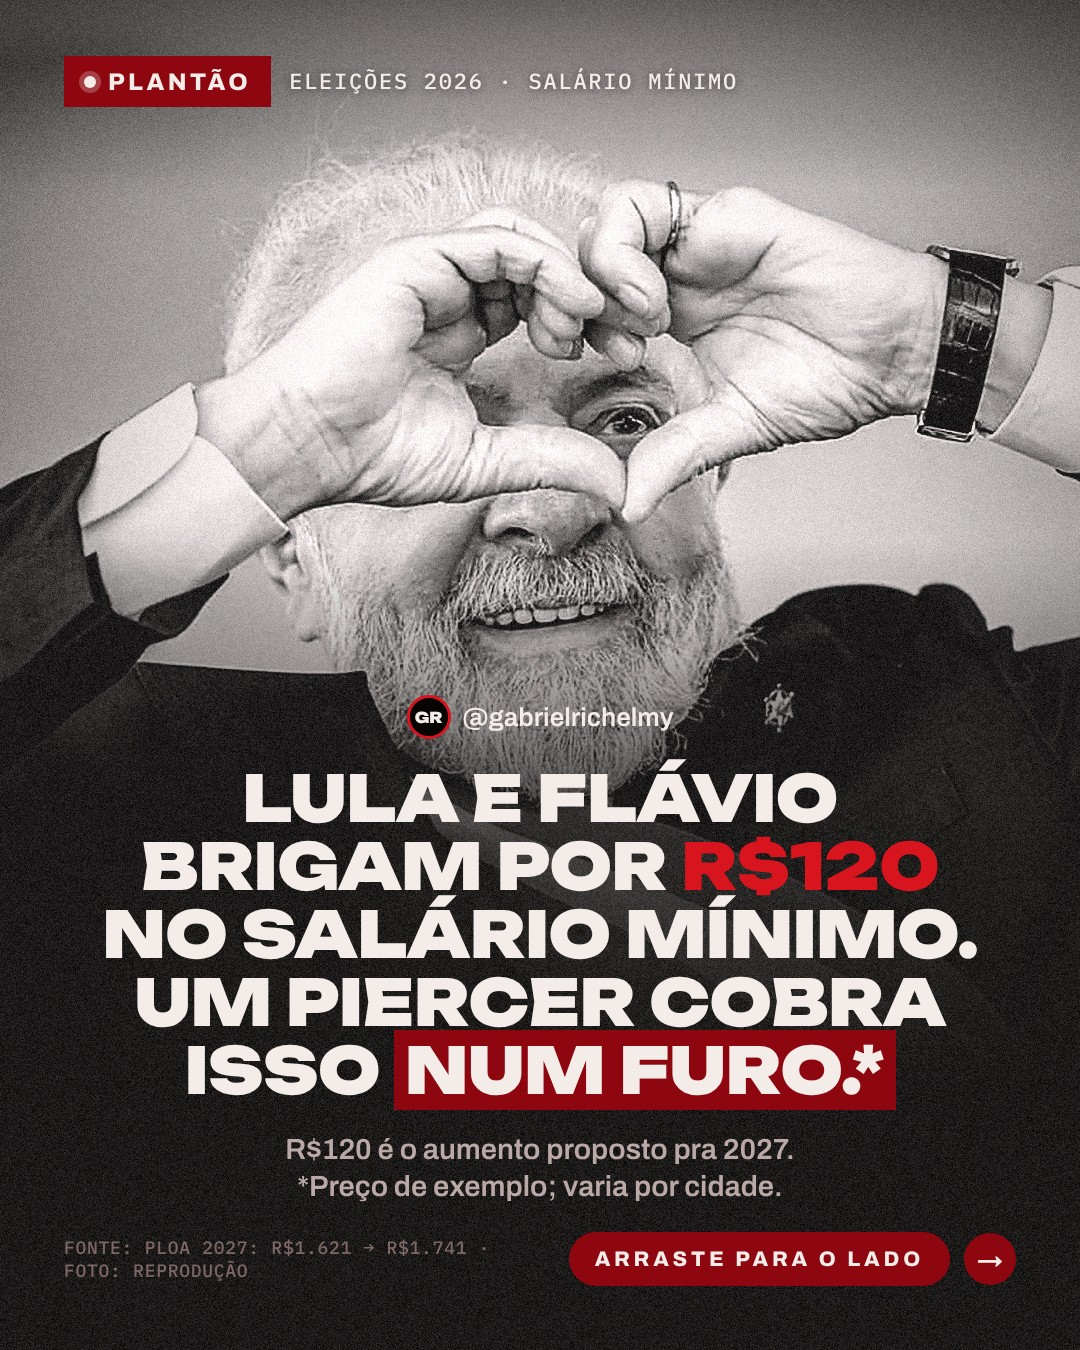
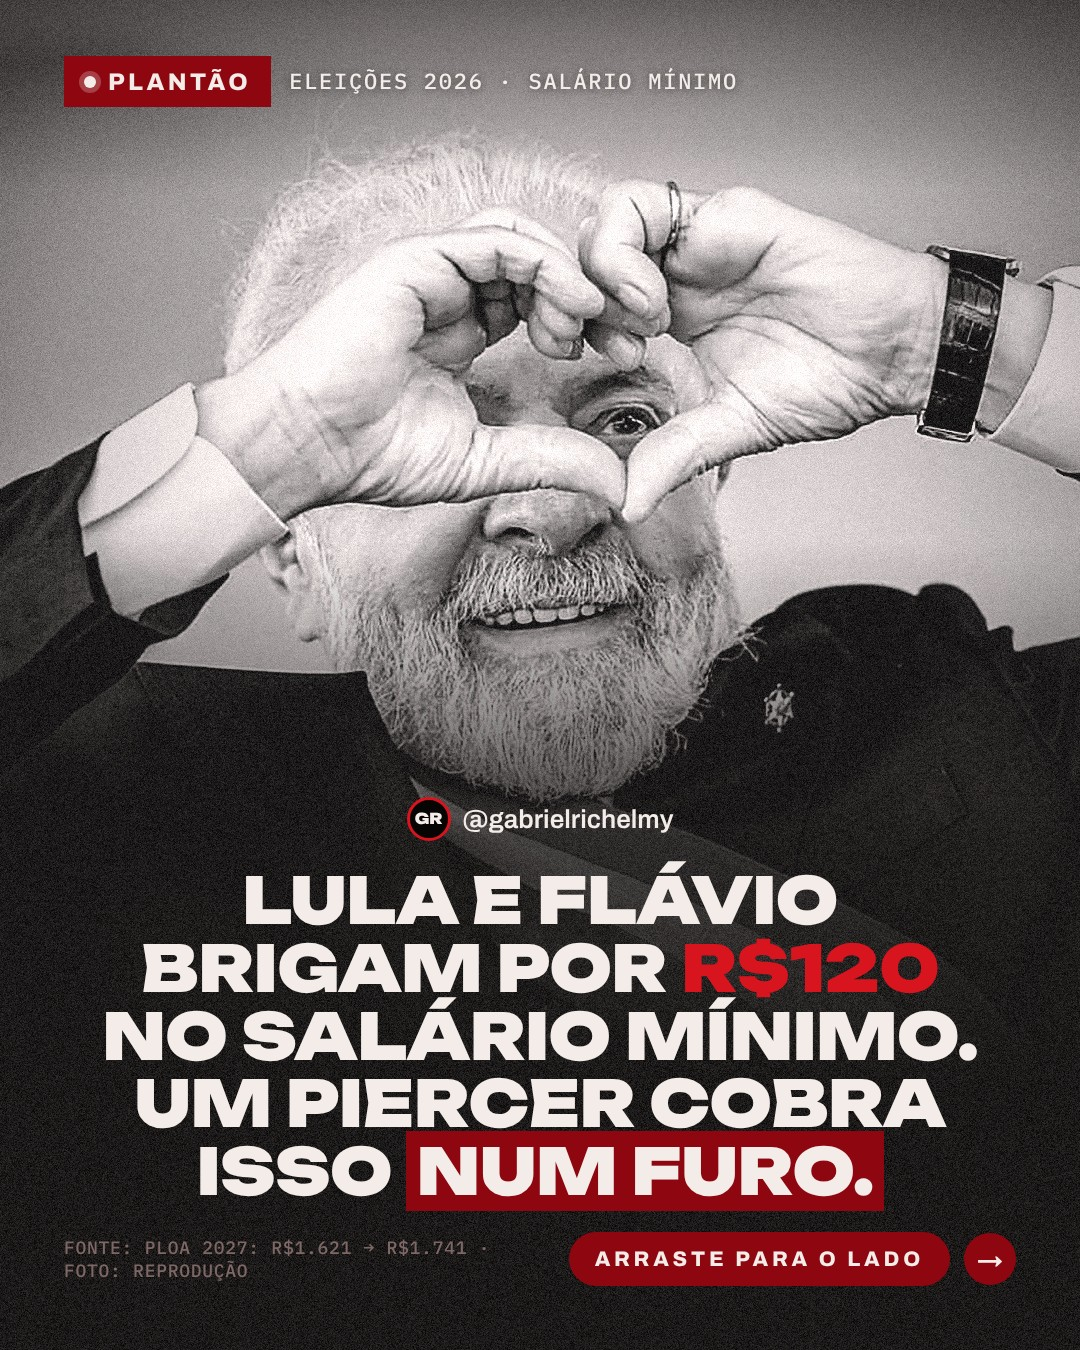
Post 1: remove subtítulo da capa e asterisco do título
Claude-Session: https://claude.ai/code/session_0192nTLvtQXzGYzvq9S2TSZP

Changed region(s): [[0.0917, 0.4978, 0.9167, 0.9022]]

diff --git a/marketing/curso-piercing/src/capas.html b/marketing/curso-piercing/src/capas.html
@@ -85,10 +85,10 @@
   function capa(c) {
     if (['foto', 'manchete', 'fundo'].includes(c.layout)) {
       return `<div class="post layout-${c.layout}"><div class="foto" style="background-image:url('../fotos/${c.foto}.jpg')"></div><div class="grao"></div>${topo(c)}
-        <div class="base">${perfil}<h1>${marca(c.head)}</h1><p class="sub">${c.sub}</p>${rodape(c)}</div></div>`;
+        <div class="base">${perfil}<h1>${marca(c.head)}</h1>${c.sub ? `<p class="sub">${c.sub}</p>` : ''}${rodape(c)}</div></div>`;
     }
     return `<div class="post tipo"><div class="brilho"></div><div class="grao"></div>${topo(c)}
-      <div class="base"><div class="big">${c.big}</div><div class="regua"></div>${perfil}<h1>${marca(c.head)}</h1><p class="sub">${c.sub}</p>${rodape(c)}</div></div>`;
+      <div class="base"><div class="big">${c.big}</div><div class="regua"></div>${perfil}<h1>${marca(c.head)}</h1>${c.sub ? `<p class="sub">${c.sub}</p>` : ''}${rodape(c)}</div></div>`;
   }
 
   function slide(c, i) {

diff --git a/marketing/curso-piercing/plantao-piercing.html b/marketing/curso-piercing/plantao-piercing.html
@@ -156,7 +156,7 @@ pre.legenda { margin: 0; white-space: pre-wrap; font: 400 15px/1.55 var(--texto)
     <header><h2>As pautas</h2><p>Toque na capa para abrir em tamanho real e salvar. Os slides internos seguem o modelo do carrossel completo logo abaixo.</p></header>
     <div class="pautas">
 <article class="pauta" id="c01">
-  <a class="capa" href="capas/c01-capa.jpg" target="_blank" rel="noopener"><img src="capas/c01-capa.jpg" alt="Capa: LULA E FLÁVIO BRIGAM POR R$120 NO SALÁRIO MÍNIMO. UM PIERCER COBRA ISSO NUM FURO.*" loading="lazy" width="1080" height="1350"></a>
+  <a class="capa" href="capas/c01-capa.jpg" target="_blank" rel="noopener"><img src="capas/c01-capa.jpg" alt="Capa: LULA E FLÁVIO BRIGAM POR R$120 NO SALÁRIO MÍNIMO. UM PIERCER COBRA ISSO NUM FURO." loading="lazy" width="1080" height="1350"></a>
   <div class="corpo">
     <p class="meta"><span class="data">08/10 · qui</span><span>Ambos</span><span class="chip no">Só orgânico</span></p>
     <h3>A briga dos R$120</h3>

diff --git a/marketing/curso-piercing/src/campanha.py b/marketing/curso-piercing/src/campanha.py
@@ -16,8 +16,8 @@ CARROSSEIS = [
         "nota_impulso": "Só orgânico. Tema eleitoral com foto de candidato: não impulsione, cite os dois lados e troque “reprodução” pelo crédito real da foto.",
         "layout": "fundo", "foto": "lula-fundo-pb",
         "tag": "PLANTÃO", "topico": "ELEIÇÕES 2026 · SALÁRIO MÍNIMO",
-        "head": "LULA E FLÁVIO BRIGAM POR *R$120* NO SALÁRIO MÍNIMO. UM PIERCER COBRA ISSO [NUM FURO.*]",
-        "sub": "R$120 é o aumento proposto pra 2027. *Preço de exemplo; varia por cidade.",
+        "head": "LULA E FLÁVIO BRIGAM POR *R$120* NO SALÁRIO MÍNIMO. UM PIERCER COBRA ISSO [NUM FURO.]",
+        "sub": "",
         "fonte": "PLOA 2027: R$1.621 → R$1.741 · FOTO: REPRODUÇÃO",
         "slides": [
             "Capa.",
